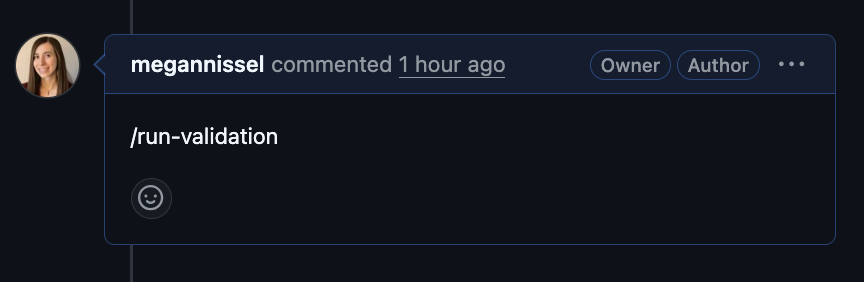
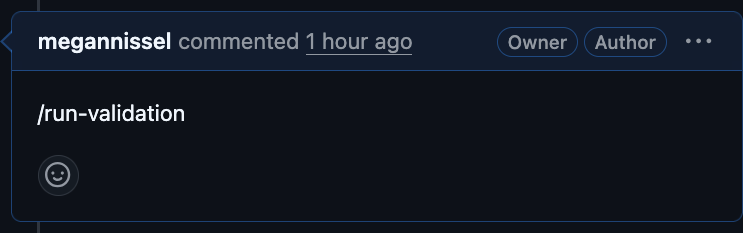
minor updates to submission process docs

diff --git a/source/docs/submission_process.rst b/source/docs/submission_process.rst
@@ -363,8 +363,8 @@ available for other users to discover and install from the registry!
 
 .. _updating_version:
 
-Coming Soon: Updating your plugin version
------------------------------------------
+Updating your plugin version
+----------------------------
 
 .. admonition:: In Development
     :class: in-progress
@@ -374,4 +374,4 @@ Coming Soon: Updating your plugin version
 
 If your plugin is already included in the Registry and you would like to update the version,
 please `open an Issue <https://github.com/natcap/invest-plugin-registry/issues/new>`_ in the
-Registry's GitHub Repo and the maintainer team will work with you.
+Registry's GitHub Repo and the maintainer team will work with you to do so.